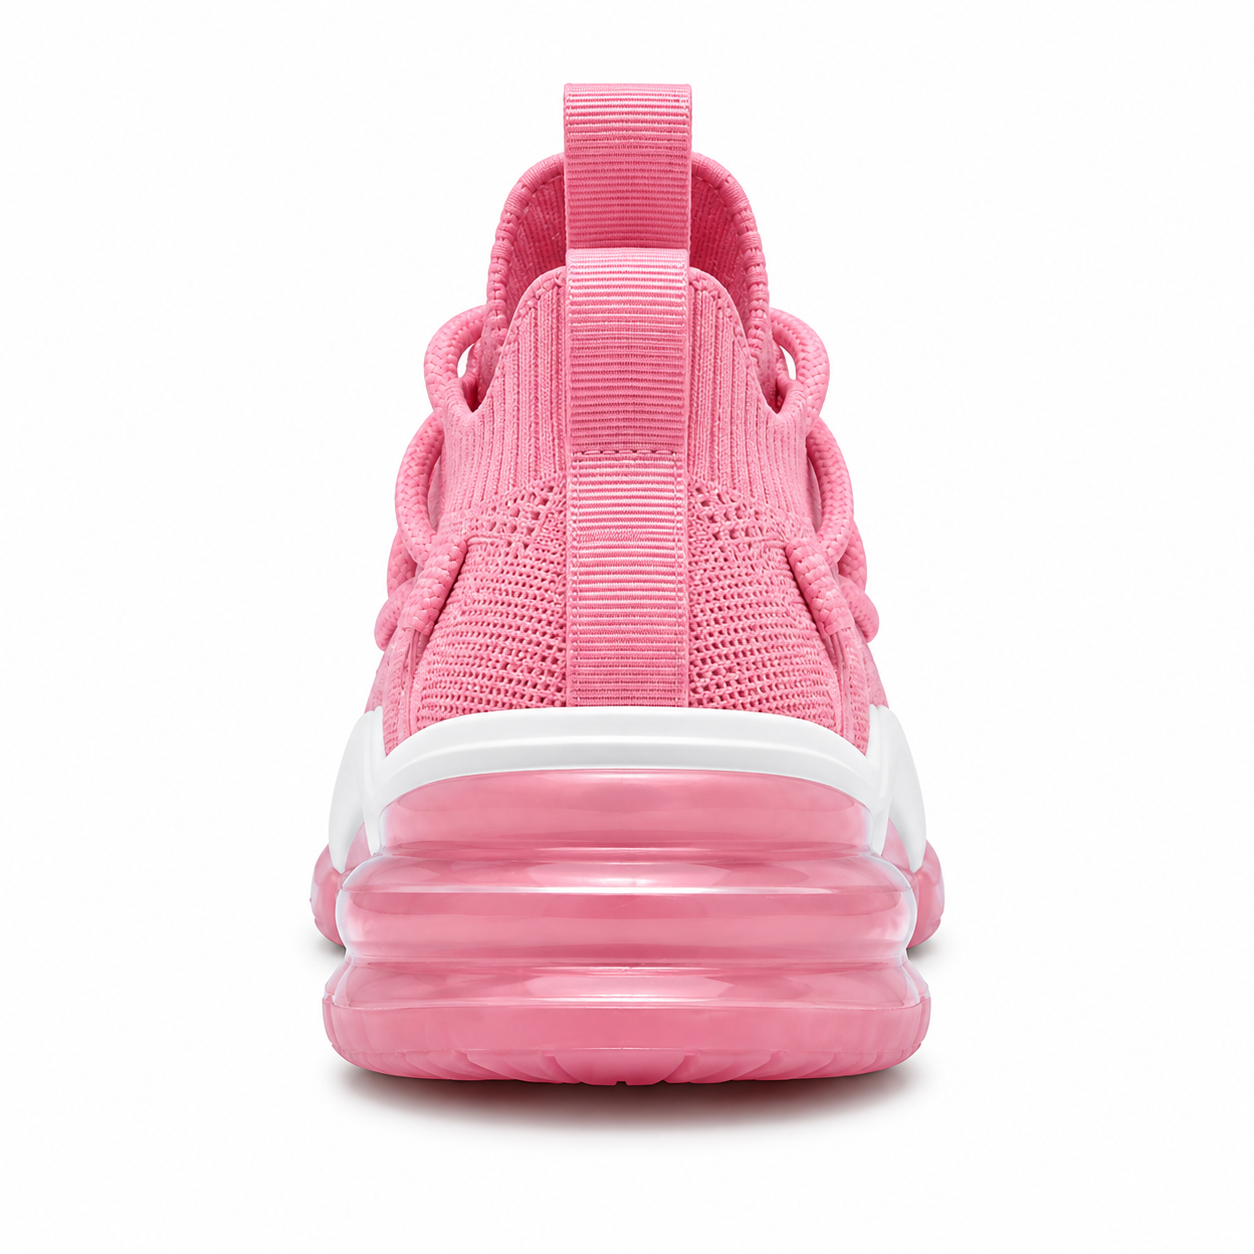
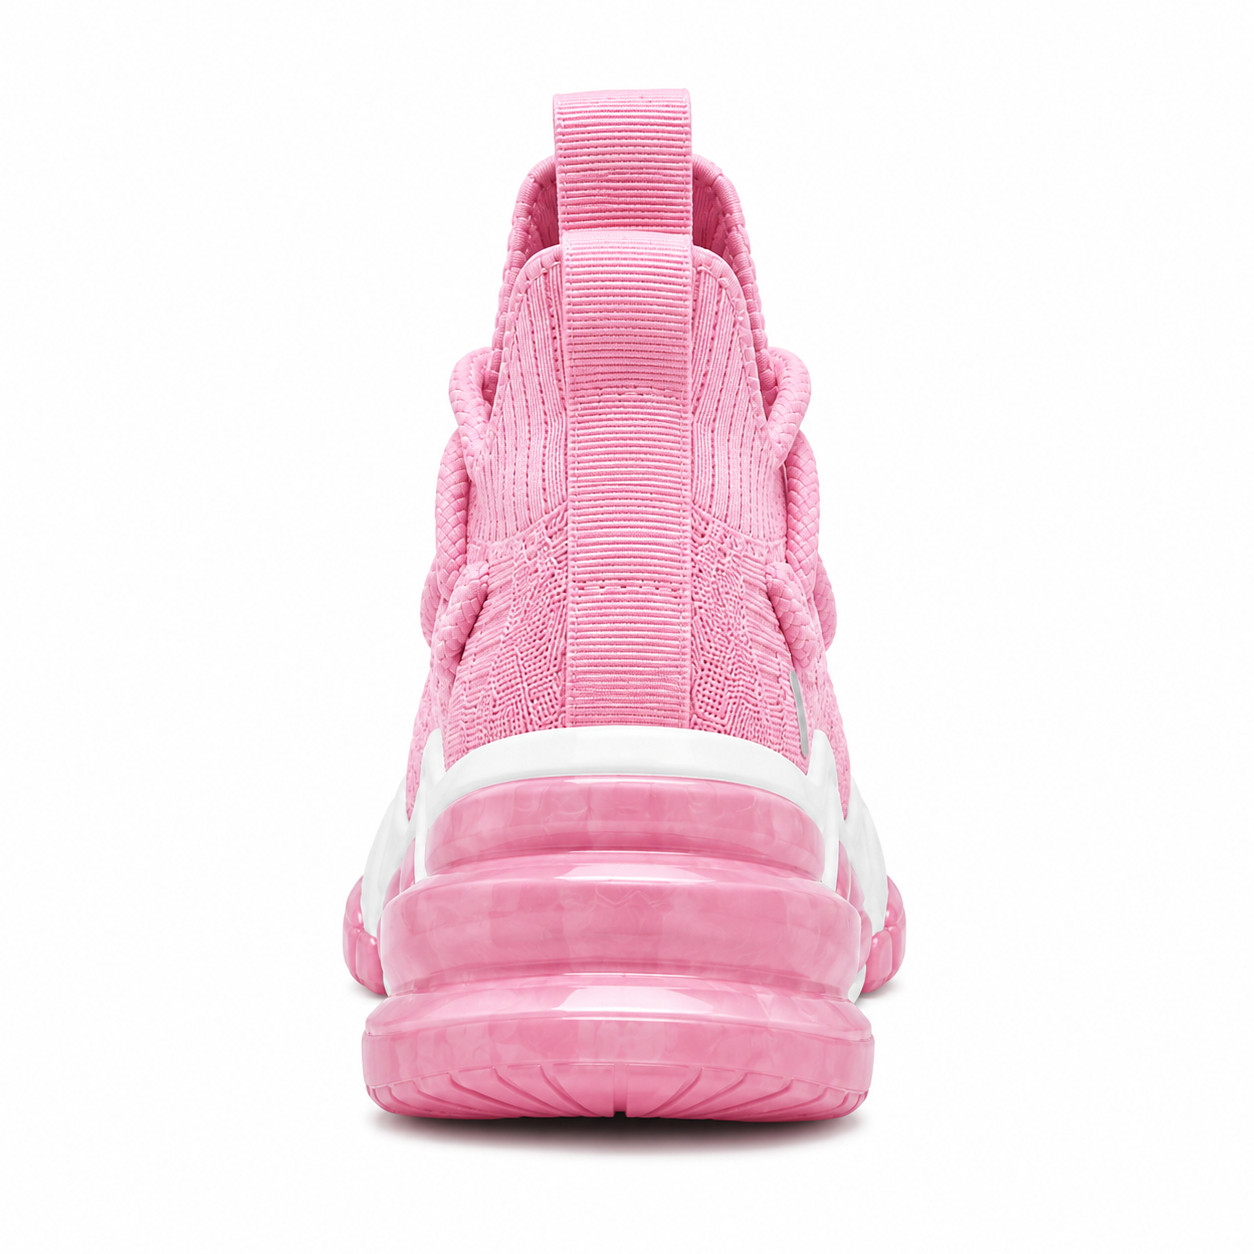
Update Rose (pink) colourway with new product images including side view

Changed region(s): [[0.2488, 0.0622, 0.7775, 0.933]]

diff --git a/src/components/product/PDPHero.tsx b/src/components/product/PDPHero.tsx
@@ -12,7 +12,7 @@ const VIEW_IMAGES: Record<string, Record<View, string>> = {
   obs: { FRONT: '/assets/shoe-black-front.png', SIDE: '/assets/shoe-black-side.png', BACK: '/assets/shoe-black-rear.png', TOP: '/assets/shoe-black-top.png' },
   car: { FRONT: '/assets/shoe-red-front.png', SIDE: '/assets/shoe-red-side.jpeg', BACK: '/assets/shoe-red-rear.png', TOP: '/assets/shoe-red-top.png' },
   ice: { FRONT: '/assets/shoe-blue-front.png',  SIDE: '/assets/shoe-blue.jpg',  BACK: '/assets/shoe-blue-rear.png',  TOP: '/assets/shoe-blue-top.png'  },
-  ros: { FRONT: '/assets/shoe-pink-front.png',  SIDE: '/assets/shoe-pink.jpg',  BACK: '/assets/shoe-pink-rear.png',  TOP: '/assets/shoe-pink-top.png'  },
+  ros: { FRONT: '/assets/shoe-pink-front.png', SIDE: '/assets/shoe-pink-side.png', BACK: '/assets/shoe-pink-rear.png', TOP: '/assets/shoe-pink-top.png' },
 }
 
 const META_ROWS = [
